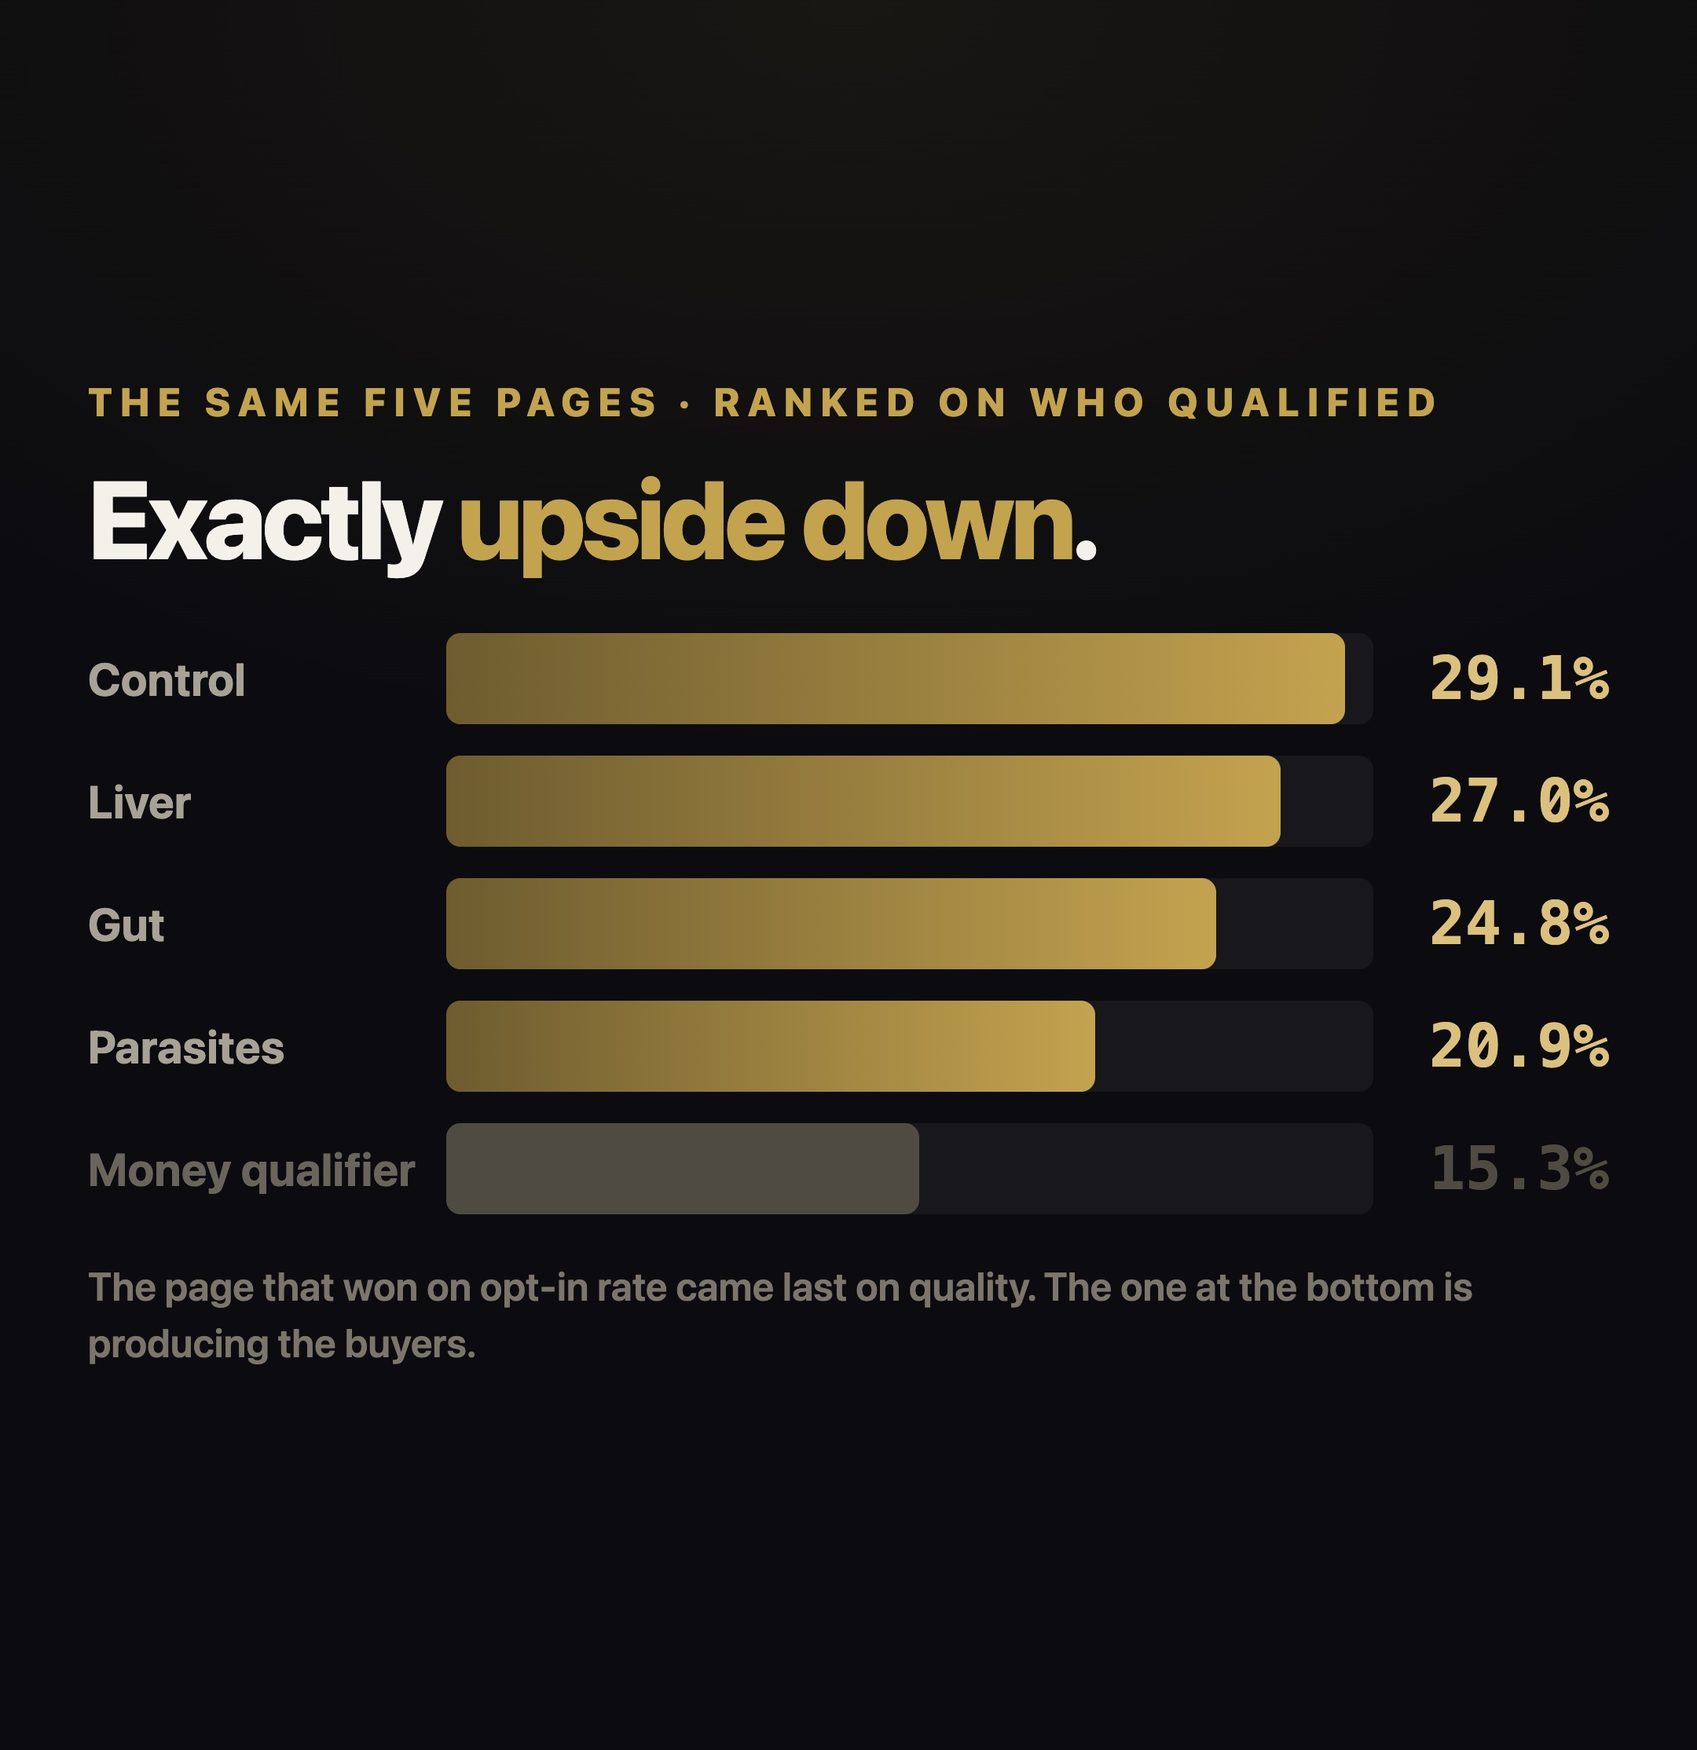
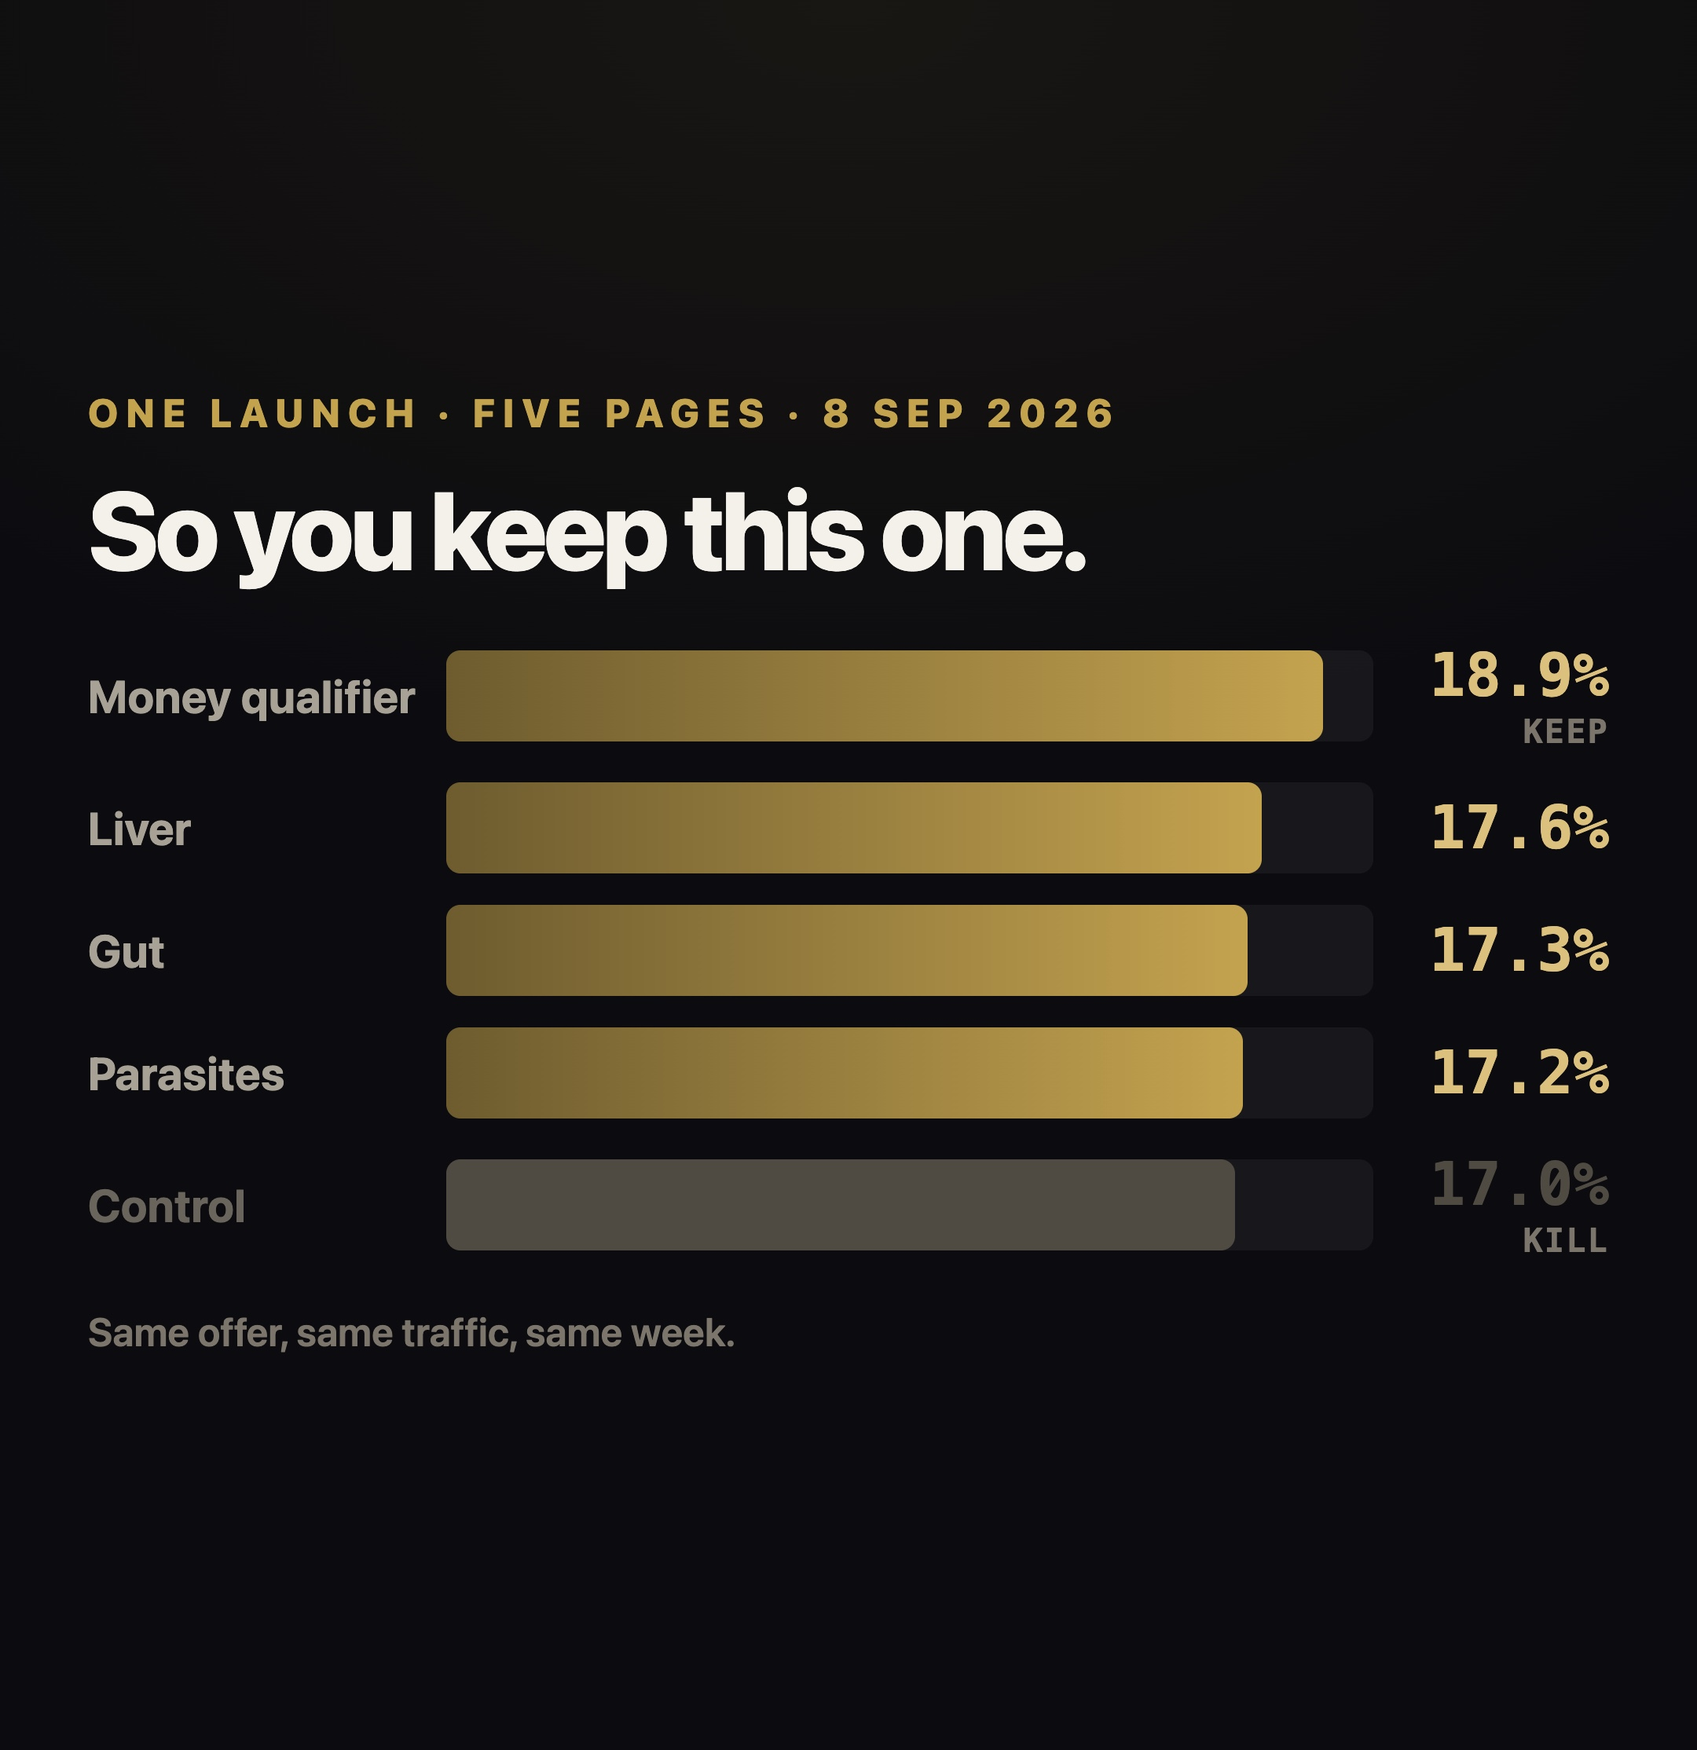
optin-rate: rebuild to Ziyad's stated structure, plainer copy
hook (most people track their webinar opt-in rates wrong) -> what most
people do (judge the page on opt-in rate) -> why that is wrong (the five
real pages, then the same five ranked on qualified) -> what to track
(qualified opt-in rate per page) -> CTA (the analytics page SOP).

Real figures kept: 18.9/17.6/17.3/17.2/17.0 opt-in against 15.3-29.1
qualified. Not the remembered 10/15/20, which would be invented numbers
attached to a real client launch.

Claude-Session: https://claude.ai/code/session_01JyUvhGiU74myjNDStH3gj5

diff --git a/frames-optinrate.html b/frames-optinrate.html
@@ -67,17 +67,20 @@
 </head>
 <body>
 
-<!-- o1 · HOOK: the claim, in his words -->
 <div class="f" id="o1">
-  <div class="eb">The number everyone gets wrong</div>
-  <h1>Most people track opt-in rate <em>wrong</em>.</h1>
-  <div class="sub">They open the dashboard, find the page with the highest rate, and switch the other ones off.<br><br>On this launch, that keeps the worst page in the test.</div>
+  <h1>Most people track their webinar opt-in rates wrong.</h1>
+  <div class="sub">I did too, until this test.</div>
 </div>
 
-<!-- o2 · WHAT MOST PEOPLE DO -->
 <div class="f" id="o2">
-  <div class="eb">What everyone does &middot; five pages &middot; 8 Sep 2026</div>
-  <h1 class="sm">Highest rate wins.<br>Keep the top. Kill the bottom.</h1>
+  <div class="eb">What most people do</div>
+  <h1 class="sm">Judge the page on its opt-in rate.</h1>
+  <div class="sub">Highest rate wins. The rest get switched off.</div>
+</div>
+
+<div class="f" id="o3">
+  <div class="eb">One launch &middot; five pages &middot; 8 Sep 2026</div>
+  <h1 class="sm">So you keep this one.</h1>
   <div class="chart" style="margin-top:36px">
     <div class="row"><div class="lbl">Money qualifier</div><div class="track"><div class="fill" style="width:94.5%"><div class="solid"></div></div></div><div class="val">18.9%<i>KEEP</i></div></div>
     <div class="row"><div class="lbl">Liver</div><div class="track"><div class="fill" style="width:88.0%"><div class="solid"></div></div></div><div class="val">17.6%</div></div>
@@ -85,57 +88,36 @@
     <div class="row"><div class="lbl">Parasites</div><div class="track"><div class="fill" style="width:86.0%"><div class="solid"></div></div></div><div class="val">17.2%</div></div>
     <div class="row dead"><div class="lbl">Control</div><div class="track"><div class="fill" style="width:85.0%"><div class="solid"></div></div></div><div class="val">17.0%<i>KILL</i></div></div>
   </div>
-  <div class="note">Same offer, same traffic, same week. Top to bottom the whole spread is 1.9 points across 4,262 views. That is what the decision gets made on.</div>
+  <div class="note">Same offer, same traffic, same week.</div>
 </div>
 
-<!-- o3 · WHY IT IS WRONG, part one: the flip -->
-<div class="f" id="o3">
-  <div class="eb">The same five pages &middot; ranked on who qualified</div>
-  <h1 class="sm">Exactly <span>upside down</span>.</h1>
-  <div class="chart" style="margin-top:38px">
+<div class="f" id="o4">
+  <div class="eb">The same five pages, ranked on qualified</div>
+  <h1 class="sm">And it is the <em>worst</em> page in the test.</h1>
+  <div class="chart" style="margin-top:36px">
     <div class="row"><div class="lbl">Control</div><div class="track"><div class="fill" style="width:97%"><div class="solid"></div></div></div><div class="val">29.1%</div></div>
     <div class="row"><div class="lbl">Liver</div><div class="track"><div class="fill" style="width:90%"><div class="solid"></div></div></div><div class="val">27.0%</div></div>
     <div class="row"><div class="lbl">Gut</div><div class="track"><div class="fill" style="width:83%"><div class="solid"></div></div></div><div class="val">24.8%</div></div>
     <div class="row"><div class="lbl">Parasites</div><div class="track"><div class="fill" style="width:70%"><div class="solid"></div></div></div><div class="val">20.9%</div></div>
     <div class="row dead"><div class="lbl">Money qualifier</div><div class="track"><div class="fill" style="width:51%"><div class="solid"></div></div></div><div class="val">15.3%</div></div>
   </div>
-  <div class="note">The page that won on opt-in rate came last on quality. The one at the bottom is producing the buyers.</div>
+  <div class="note">The page you were about to switch off is top.</div>
 </div>
 
-<!-- o4 · WHY IT IS WRONG, part two: the head to head -->
-<div class="f" id="o4">
-  <div class="eb">Head to head &middot; 795 views against 871</div>
-  <h1 class="sm">1.9 points fewer opt-ins.<br><span>Nearly twice</span> the qualified leads.</h1>
-  <div class="chart" style="margin-top:40px">
-    <div class="row"><div class="lbl">Money qualifier</div><div class="track"><div class="fill" style="width:94.5%"><div class="qual" style="width:15.3%"></div><div class="rest" style="width:84.7%"></div></div></div><div class="val">23<i>QUALIFIED</i></div></div>
-    <div class="row"><div class="lbl">Control</div><div class="track"><div class="fill" style="width:85.0%"><div class="qual" style="width:29.1%"></div><div class="rest" style="width:70.9%"></div></div></div><div class="val">43<i>QUALIFIED</i></div></div>
+<div class="f" id="o5">
+  <div class="eb">The two pages, side by side</div>
+  <h1 class="sm">23 qualified.<br><span>43 qualified.</span></h1>
+  <div class="chart" style="margin-top:38px">
+    <div class="row"><div class="lbl">Money qualifier</div><div class="track"><div class="fill" style="width:94.5%"><div class="qual" style="width:15.3%"></div><div class="rest" style="width:84.7%"></div></div></div><div class="val">23</div></div>
+    <div class="row"><div class="lbl">Control</div><div class="track"><div class="fill" style="width:85.0%"><div class="qual" style="width:29.1%"></div><div class="rest" style="width:70.9%"></div></div></div><div class="val">43</div></div>
   </div>
   <div class="key"><span class="k1"><i></i>Qualified</span><span class="k2"><i></i>Everyone else</span></div>
-  <div class="note">Bar length is the opt-in rate. The shorter bar has more gold in it.</div>
+  <div class="note">18.9% opt-in against 17.0%. Nearly twice the qualified people off the lower page.</div>
 </div>
 
-<!-- o5 · WHY IT IS WRONG, the sentence it all reduces to -->
-<div class="f" id="o5">
-  <div class="eb">Why that number cannot tell you</div>
-  <div class="cols">
-    <div class="col">
-      <div class="ct">Opt-in rate moved</div>
-      <div class="cv">1.9<span style="font-size:30px">pts</span></div>
-      <div class="cs">Across 4,262 views. Close to flat.</div>
-    </div>
-    <div class="col good">
-      <div class="ct">Quality moved</div>
-      <div class="cv">1.9<span style="font-size:30px">x</span></div>
-      <div class="cs">15.3% to 29.1% qualified. Same pages, same week.</div>
-    </div>
-  </div>
-  <h1 class="sm" style="margin-top:50px">You are optimising the <span>flat line</span>.</h1>
-</div>
-
-<!-- o6 · the ranking that actually decides which page to keep -->
 <div class="f" id="o6">
-  <div class="eb">The only ranking that decides it</div>
-  <h1 class="sm">Qualified leads<br>per 1,000 views.</h1>
+  <div class="eb">The ranking that actually decides it</div>
+  <h1 class="sm">Qualified people<br>per 1,000 views.</h1>
   <div class="chart" style="margin-top:36px">
     <div class="row"><div class="lbl">Control</div><div class="track"><div class="fill" style="width:97%"><div class="solid"></div></div></div><div class="val">49.4</div></div>
     <div class="row"><div class="lbl">Liver</div><div class="track"><div class="fill" style="width:93%"><div class="solid"></div></div></div><div class="val">47.6</div></div>
@@ -143,46 +125,34 @@
     <div class="row"><div class="lbl">Parasites</div><div class="track"><div class="fill" style="width:70%"><div class="solid"></div></div></div><div class="val">36.0</div></div>
     <div class="row dead"><div class="lbl">Money qualifier</div><div class="track"><div class="fill" style="width:56%"><div class="solid"></div></div></div><div class="val">28.9</div></div>
   </div>
-  <div class="note">Traffic evened out, so page size cannot flatter anything. This is the list you switch pages off from. It is not the list anyone looks at.</div>
+  <div class="note">Traffic evened out, so a bigger page cannot flatter itself.</div>
 </div>
 
-<!-- o7 · the honesty beat -->
 <div class="f" id="o7">
-  <div class="eb">What I will not claim</div>
-  <h1 class="sm">This is a pattern on one account. It is not a law.</h1>
-  <ul class="steps" style="margin-top:34px">
-    <li><b>01</b><div>One client, one ad account, one launch<small>Whether the same inversion shows up anywhere else is still an open question in our own notes.</small></div></li>
-    <li><b>02</b><div>Five pages, 4,262 views<small>Enough to act on. Not enough to call it settled.</small></div></li>
-    <li><b>03</b><div>This chain stops at qualified<small>No buyer numbers page by page yet. When I have them I will post them either way.</small></div></li>
-  </ul>
-</div>
-
-<!-- o8 · WHAT TO DO INSTEAD -->
-<div class="f" id="o8">
   <div class="eb">What to track instead</div>
-  <ul class="steps" style="margin-top:6px">
-    <li><b>01</b><div>Qualified rate, per page<small>Not how many opted in. What share of them match who you can actually sell to.</small></div></li>
-    <li><b>02</b><div>Cost per qualified registration, per ad<small>Ours ran &pound;8.00 on one launch and &pound;11.02 on the next. Cost per lead said the opposite both times.</small></div></li>
-    <li><b>03</b><div>Both, side by side, per variant<small>A page can win the first and lose the second. That is the only view that tells you what to switch off.</small></div></li>
-  </ul>
+  <h1 class="sm">Qualified opt-in rate.<br>Per page.</h1>
+  <div class="sub">Opt-in rate tells you how many came in. Qualified rate tells you how many were worth having. Only one of them decides what to switch off.</div>
 </div>
 
-<!-- o9 · the build rule that decides whether the data exists at all -->
-<div class="f" id="o9">
-  <div class="eb">The build rule none of it works without</div>
-  <h1 class="sm">Ask the qualifying question <span>after</span> they are registered. Never in front of it.</h1>
-  <div class="chart" style="margin-top:42px">
+<div class="f" id="o8">
+  <div class="eb">You only get the number if you build it this way</div>
+  <h1 class="sm">Ask the qualifying question <span>after</span> they register.</h1>
+  <div class="chart" style="margin-top:40px">
     <div class="row"><div class="lbl">Reached the form</div><div class="track"><div class="fill" style="width:100%"><div class="solid"></div></div></div><div class="val">948</div></div>
     <div class="row dead"><div class="lbl">Never came back</div><div class="track"><div class="fill" style="width:46.8%"><div class="solid"></div></div></div><div class="val">444</div></div>
   </div>
-  <div class="note">We put it in front. 46.8% of the room left to answer it. Put it on the thank-you page and you keep them and still learn who they are.</div>
+  <div class="note">We put it in front of registration once. 46.8% of the room walked rather than answer it.</div>
 </div>
 
-<!-- o10 · CTA -->
+<div class="f" id="o9">
+  <div class="eb">What I will not claim</div>
+  <h1 class="sm">One client. One launch. Five pages.</h1>
+  <div class="sub">4,262 views. Enough to act on, not enough to call it settled. And I do not have buyer numbers page by page yet. When I do I will post them either way.</div>
+</div>
+
 <div class="f" id="o10">
-  <div class="eb">Build the page that shows you this</div>
   <h1 class="sm">Comment <span>PAGES</span></h1>
-  <div class="sub">I&rsquo;ll send you the tracking SOP and the prompt that builds your own opt-in page analytics: every variant&rsquo;s opt-in rate, its qualified rate, and what a qualified lead costs you per ad.</div>
+  <div class="sub">I will send you the SOP for the analytics page we build to track this. Opt-in rate and qualified rate for every page, in one view.</div>
 </div>
 
 </body>

diff --git a/index.html b/index.html
@@ -190,16 +190,16 @@
     'optin-rate': {
       name: 'Opt-in rate \u00b7 the page everyone would switch off',
       beats: [
-        {img:'img/opt1.jpg', s:"Most people track opt-in rate wrong. They open the dashboard, find the page with the highest rate, and switch the other ones off. On this launch, that keeps the worst page in the test."},
-        {img:'img/opt2.jpg', s:"Here are five pages from one launch. Same offer, same traffic, same week. Highest rate wins, so you keep the money qualifier at eighteen nine and you kill the control at seventeen. And the whole spread, top to bottom, is one point nine points across four thousand two hundred views. That's what the decision gets made on."},
-        {img:'img/opt3.jpg', s:"Now the same five pages, ranked on who actually qualified. It's exactly upside down. The page that won on opt-in rate came last on quality."},
-        {img:'img/opt4.jpg', s:"Head to head. One point nine points fewer opt-ins, and nearly twice the qualified leads. Twenty three against forty three, on seven hundred and ninety five views against eight hundred and seventy one."},
-        {img:'img/opt5.jpg', s:"That's why the usual number can't tell you anything. Opt-in rate moved one point nine points. Quality moved nearly double. You're optimising the flat line."},
-        {img:'img/opt6.jpg', s:"So this is the only ranking that decides it. Qualified leads per thousand views, so page size can't flatter anything. Forty nine against twenty nine, top to bottom. This is the list you switch pages off from, and it's not the list anyone looks at."},
-        {img:'img/opt7.jpg', s:"What I won't claim. One client, one ad account, one launch. Five pages and four thousand views is enough to act on, not enough to call it settled. And this chain stops at qualified, I don't have buyer numbers page by page yet. When I do I'll post them either way."},
-        {img:'img/opt8.jpg', s:"So track these instead. Qualified rate per page. Cost per qualified registration. And both of them sat next to the opt-in rate, because that's the only way you see them disagree."},
-        {img:'img/opt9.jpg', s:"And one build rule, or none of it exists. Ask the qualifying question after they're registered, never in front of it. We put it in front and forty six point eight percent of the room left to answer it."},
-        {img:'img/opt10.jpg', s:"Comment PAGES and I'll send you the tracking SOP and the prompt that builds your own opt-in page analytics."}
+        {img:'img/opt1.jpg', s:"Most people track their webinar opt-in rates wrong. I did too, until this test."},
+        {img:'img/opt2.jpg', s:"Here's what most people do. You judge the page on its opt-in rate. Highest rate wins, and the rest get switched off."},
+        {img:'img/opt3.jpg', s:"One launch, five opt-in pages, eighth of September. Same offer, same traffic, same week. So you keep the money qualifier at eighteen nine, and you kill the control at seventeen."},
+        {img:'img/opt4.jpg', s:"Now here are the same five pages ranked on how many of those people actually qualified. The one you kept is the worst page in the test. The one you were about to switch off is top."},
+        {img:'img/opt5.jpg', s:"Put the two side by side. Twenty three qualified off the best opt-in page. Forty three off the one underneath it. Nearly twice as many, from the page with the lower rate."},
+        {img:'img/opt6.jpg', s:"So this is the ranking that actually decides it. Qualified people per thousand views, so a bigger page can't flatter itself. Forty nine at the top, twenty nine at the bottom."},
+        {img:'img/opt7.jpg', s:"Track qualified opt-in rate, per page. Opt-in rate tells you how many came in. Qualified rate tells you how many were worth having. Only one of them decides what to switch off."},
+        {img:'img/opt8.jpg', s:"And you only get that number if you build the form right. Ask the qualifying question after they register, not before. We put it in front once and forty six point eight percent of the room walked rather than answer it."},
+        {img:'img/opt9.jpg', s:"What I won't claim. One client, one launch, five pages, four thousand views. Enough to act on, not enough to call it settled. And I don't have buyer numbers page by page yet. When I do I'll post them either way."},
+        {img:'img/opt10.jpg', s:"Comment PAGES and I'll send you the SOP for the analytics page we build to track this."}
       ]
     },
 
